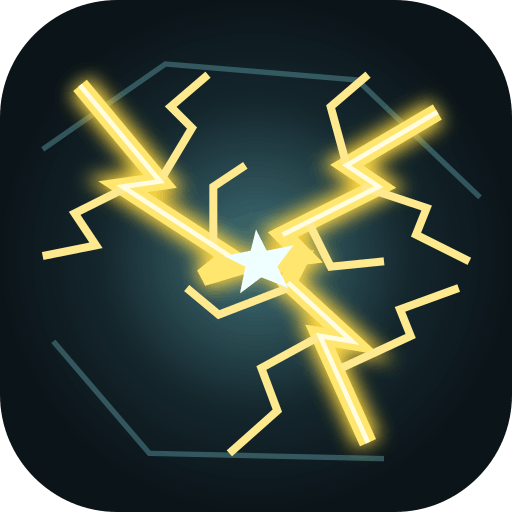
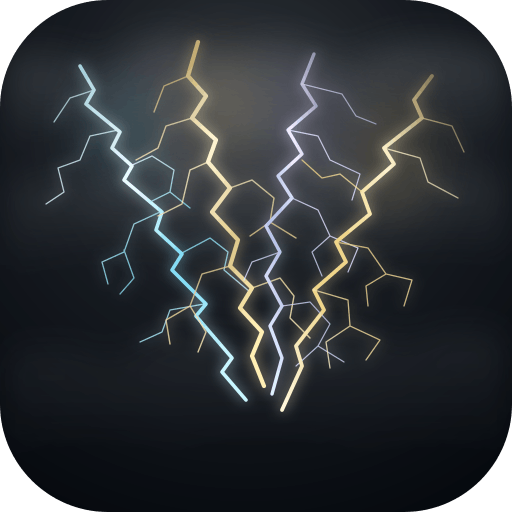
Redraw four fine top-origin lightning strikes over a misty dark fantasy sky

diff --git a/index.html b/index.html
@@ -6,8 +6,8 @@
   <meta name="theme-color" content="#0b1419">
   <meta name="description" content="Electronic Learning Workbench — exam preparation, electronics courses, textbook companions, hands-on laboratories and interactive circuits.">
   <title>Electronic Learning Workbench</title>
-  <link rel="icon" href="./icon.svg?v=3" type="image/svg+xml">
-  <link rel="apple-touch-icon" href="./icon-180.png?v=3">
+  <link rel="icon" href="./icon.svg?v=4" type="image/svg+xml">
+  <link rel="apple-touch-icon" href="./icon-180.png?v=4">
   <link rel="manifest" href="./manifest.webmanifest">
   <link rel="stylesheet" href="./styles.css">
 </head>
@@ -16,7 +16,7 @@
   <div class="shell">
     <aside class="sidebar" id="study-sidebar">
       <button class="sidebar-close" id="sidebar-close" aria-label="Close navigation">×</button>
-      <div class="brand"><div class="brand-icon"><img src="./icon.svg?v=3" width="41" height="41" alt="Three yellow lightning bolts"></div><div><b>Electronic<br>Learning<br>Workbench</b></div></div>
+      <div class="brand"><div class="brand-icon"><img src="./icon.svg?v=4" width="41" height="41" alt="Four branching lightning strikes"></div><div><b>Electronic<br>Learning<br>Workbench</b></div></div>
       <nav aria-label="Main navigation">
         <button class="nav-link active" data-view="dashboard"><span class="nav-symbol" aria-hidden="true">▦</span><span>Dashboard</span></button>
         <button class="nav-link" data-view="textbooks"><span class="nav-symbol" aria-hidden="true">▣</span><span>Textbook Companions</span><small class="nav-status" data-nav-status="textbooks"></small></button>

diff --git a/ai-chat-widget.js b/ai-chat-widget.js
@@ -64,7 +64,7 @@ export function mountAIChat(getLesson=()=>null){
  lessonGetter=getLesson;
  if(root)return;
  root=document.createElement('div');root.className='ai-chat-root';
- root.innerHTML=`<button type="button" id="ai-chat-launch" class="ai-chat-launch" aria-controls="ai-chat-panel" aria-expanded="false" hidden><img src="./icon.svg?v=3" width="24" height="24" alt=""> Study tutor</button>
+ root.innerHTML=`<button type="button" id="ai-chat-launch" class="ai-chat-launch" aria-controls="ai-chat-panel" aria-expanded="false" hidden><img src="./icon.svg?v=4" width="24" height="24" alt=""> Study tutor</button>
  <section id="ai-chat-panel" class="ai-chat-panel" role="dialog" aria-label="Private AI study tutor" hidden>
   <div class="ai-chat-head">
    <div><strong>Private study tutor</strong><small id="ai-chat-context">General electronics questions</small></div>

diff --git a/docs/v2/TEACHING_AND_DESIGN_CONTRACT.md b/docs/v2/TEACHING_AND_DESIGN_CONTRACT.md
@@ -71,3 +71,7 @@ User requested card heights at about 60% of the previous layout and an arrow div
 User requested less dominant blue, frosted cyan/white panel highlights with restrained lightning yellow accents, and three nonuniform branching bolts converging from different angles. Use charcoal/neutral frosted surfaces, bright icy cyan illuminated borders and yellow focus/selected accents. Keep current compact geometry and all learner data unchanged. Redrawn SVG branding plus 192/512px PNG, maskable and Apple touch icons serve site and phone launchers.
 
 Tutor launcher supports mouse dragging, short touch hold/drag and Alt+arrow keyboard movement. A completed drag suppresses opening the tutor. Positions are local UI preferences, separate for phone/desktop, restored on reload and clamped inside the viewport. Dragging never invokes a paid request or changes grading. Preserve owner-only visibility, chat authorization and existing paid send flow.
+
+## Dark fantasy icon revision
+
+User supersedes the three-bolt icon: four thin irregular branching strikes, all originating near the top and descending at different angles, each with its own glacial, pale-gold, silver-violet or amber-white gradient and restrained bloom. Backdrop is a gray misty cloudy night sky. Update SVG, phone raster/maskable/Apple icons and cache version together. Keep the site theme, layout and draggable tutor behavior unchanged.

diff --git a/docs/qa/dark-fantasy-icon-checkpoint.md b/docs/qa/dark-fantasy-icon-checkpoint.md
@@ -1,0 +1,7 @@
+# Four-strike dark fantasy icon — 2026-10-13
+
+User superseded the earlier three-bolt mark: use four thinner branching strikes at different descending angles, all with top origins, distinct gradients, bloom, and a very gray misty cloudy night sky.
+
+Redrew the source SVG with four labeled primary paths, fine secondary branching, individual glacial-cyan/pale-gold/silver-violet/amber-white gradients, soft colored bloom and charcoal cloud layers. Removed the bottom-origin bolt, geometric frame and central star. Regenerated 192/512px PNG, safe-zone maskable 512px and Apple touch 180px icons; updated site/tutor/manifest icon cache version and accessible descriptions. No theme/layout, drag behavior, source content, progress or paid inference changes.
+
+Local syntax, 206 unit/contract tests, static build/deployment allowlist and whitespace checks pass. Branding contract verifies four primary paths, mist backdrop, distinct colors and raster dimensions; raster inspected visually. Exact-commit full CI remains required before staging promotion. Existing home-screen shortcuts may cache the older icon until refreshed or re-added. Production is outside this update.
